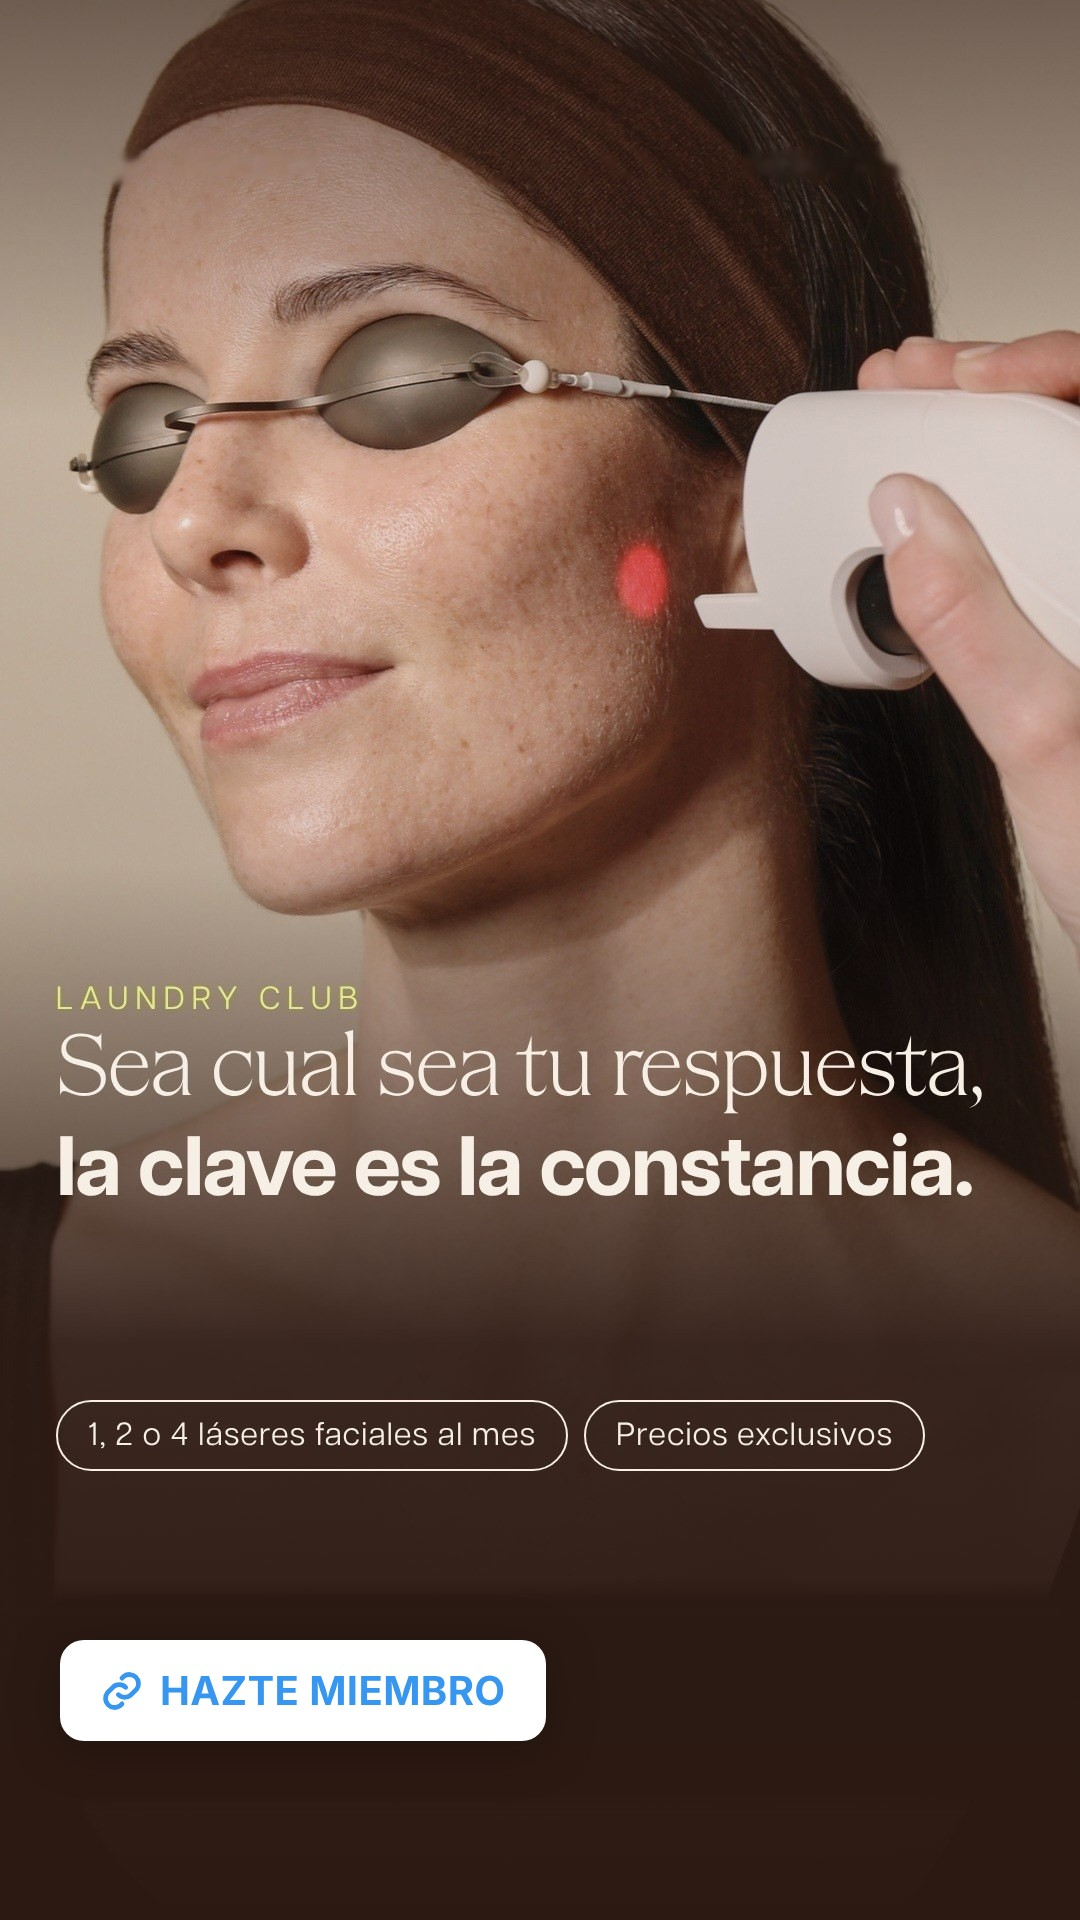
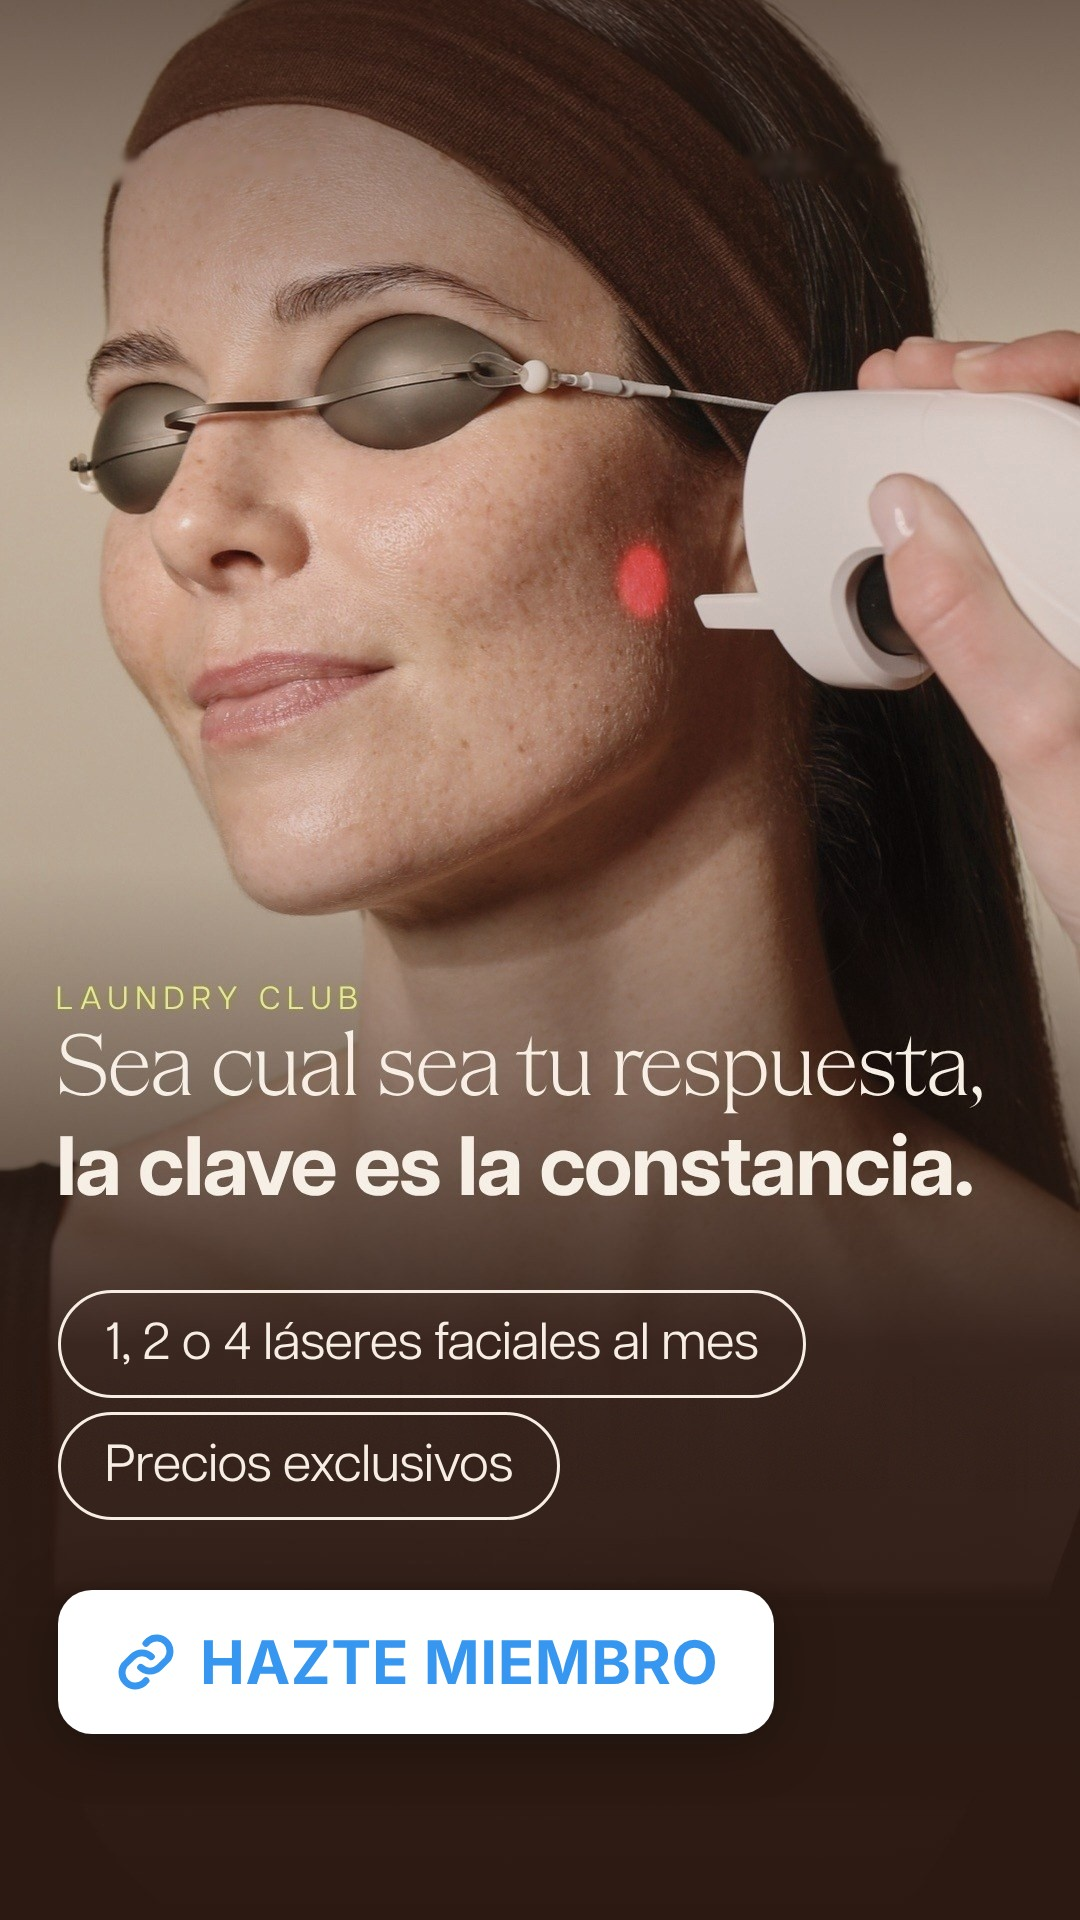
Calendario noviembre: botones más grandes en la story 3 del 13
Claude-Session: https://claude.ai/code/session_01JZ4qrB4vBJCM1LriYw1bZU

Changed region(s): [[0.0306, 0.8125, 0.7333, 0.9062], [0.0611, 0.6875, 0.825, 0.7812], [0.0306, 0.75, 0.0611, 0.7812]]

diff --git a/public/pitch/skin-laundry-calendario/noviembre/index.html b/public/pitch/skin-laundry-calendario/noviembre/index.html
@@ -888,7 +888,7 @@ const MOSTRAR_STORIES = false;
 const STORIES = {
   /* Pack que iba a salir el miércoles 11 y no se publicó: pasa al viernes 13 */
   13: { titulo:"Pack de stories", hora:"12:00h", estado:"listo",
-        imgs:["/pitch/skin-laundry-calendario/noviembre/img/s13_1.jpg?v=11120220","/pitch/skin-laundry-calendario/noviembre/img/s13_2.jpg?v=11120220","/pitch/skin-laundry-calendario/noviembre/img/s13_3.jpg?v=11120220"],
+        imgs:["/pitch/skin-laundry-calendario/noviembre/img/s13_1.jpg?v=11120220","/pitch/skin-laundry-calendario/noviembre/img/s13_2.jpg?v=11120220","/pitch/skin-laundry-calendario/noviembre/img/s13_3.jpg?v=11121312"],
         items:["Encuesta: ¿qué te preocupa más este otoño? Manchas / Textura / Flacidez","Caja de preguntas: pregúntale a nuestra doctora sobre manchas, textura o flacidez","Recordatorio Laundry Club: la clave es la constancia · hazte miembro, link en bio"] }
 };
 
